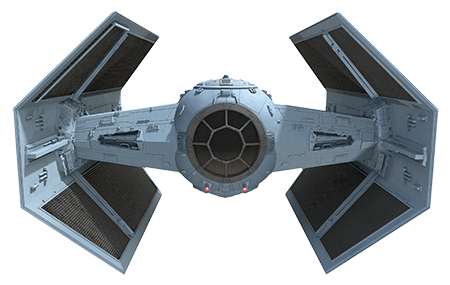
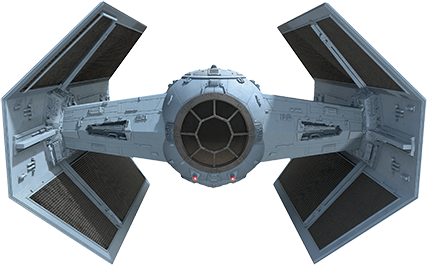
better positioning

Changed region(s): [[0.0, 0.0, 1.0, 1.0]]

diff --git a/git365/03/index.html b/git365/03/index.html
@@ -50,8 +50,8 @@
 
     $(document).bind('mousemove', function(e){
         $('#tie').css({
-           left:  e.pageX,
-           top:   e.pageY
+           left:  e.pageX - 213,
+           top:   e.pageY -132
         });
     });
 
